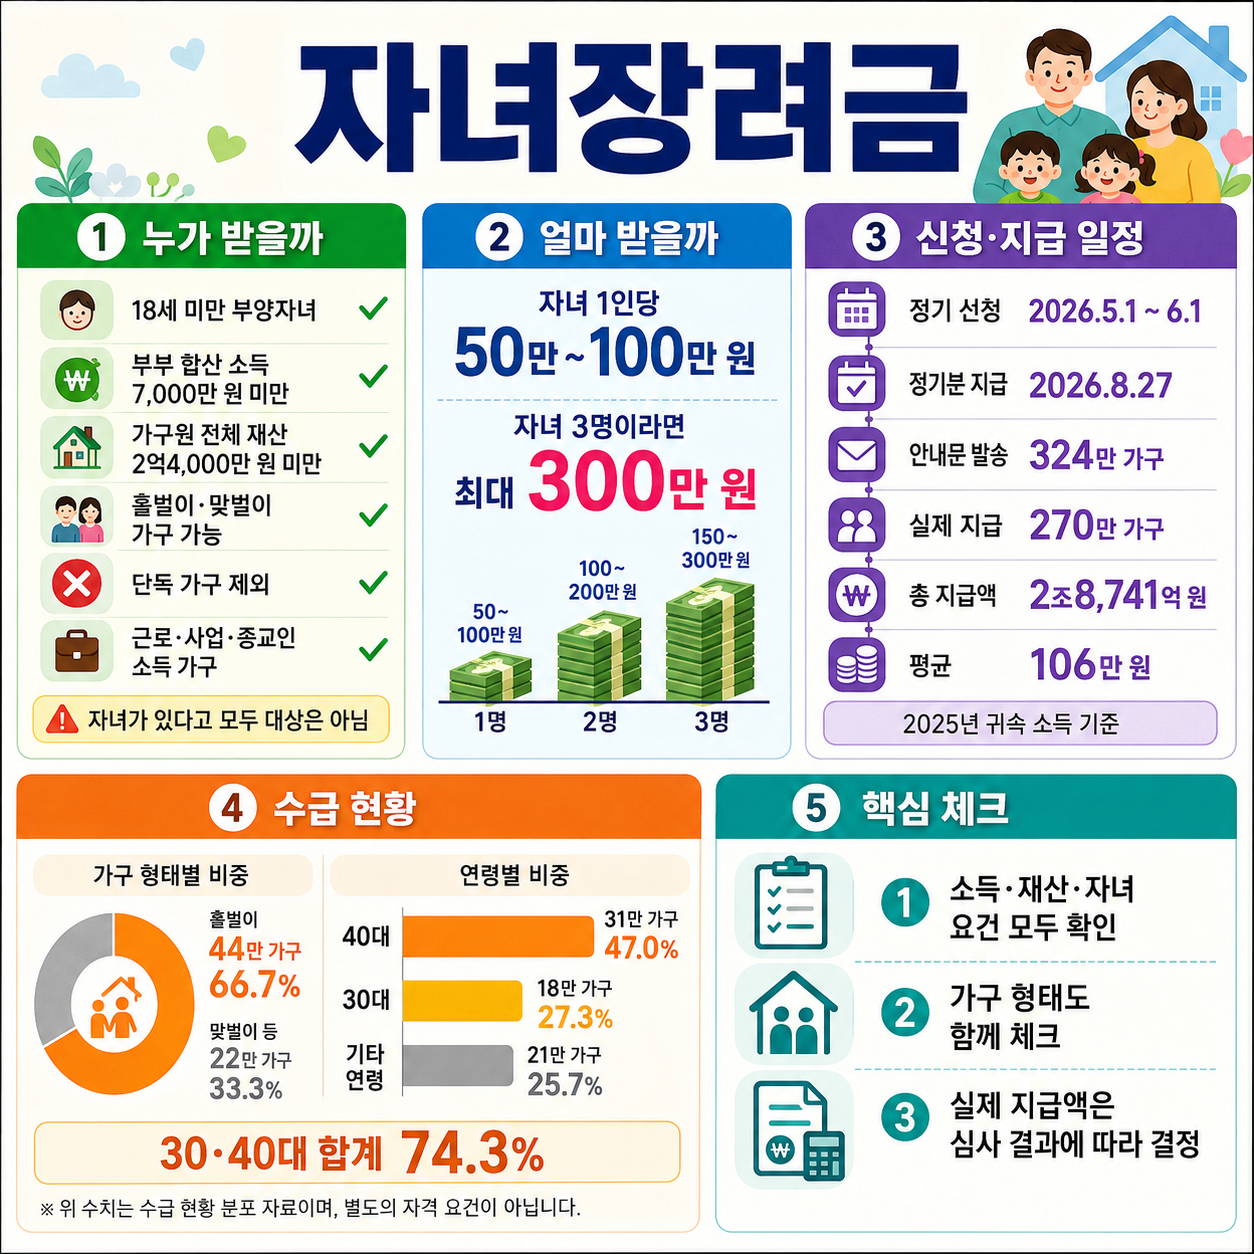
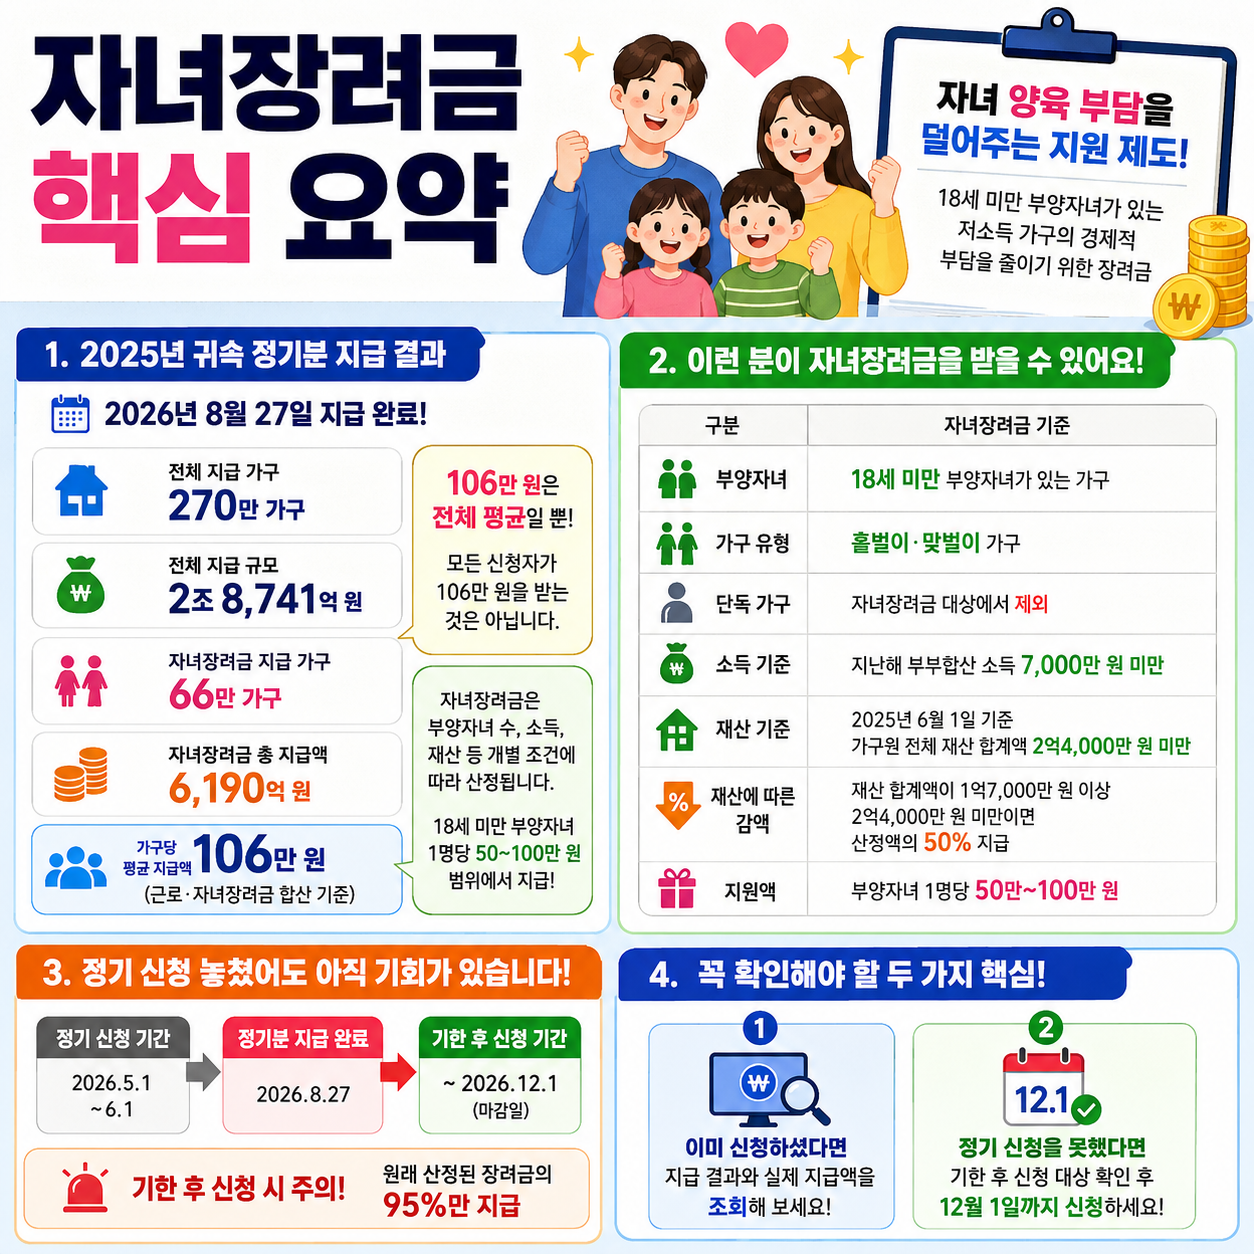
post: auto-generated for tax-yearend

diff --git a/sites/tax-yearend/content/posts/2026-08-29-자녀장려금-신청-조건과-혜택-총정리.md b/sites/tax-yearend/content/posts/2026-08-29-자녀장려금-신청-조건과-혜택-총정리.md
@@ -1,0 +1,270 @@
+---
+title: "자녀장려금 신청 조건과 혜택 총정리"
+date: 2026-08-29
+description: "자녀장려금이란? 자녀 양육 부담을 덜어주는 지원 제도입니다 자녀장려금은 18세 미만 부양자녀가 있는 저소득 가구의 자녀 양육 부담을 덜기 위해 지급하는 장려금 입니다. 근로장려금이 일하는 저소득 가구의 실질소득을 지원하는 데 초점이 있다면, 자녀장려금은 자녀를 부양하는 가구의 경제적 부담을 줄이는 데 목적이 있습니다. 2"
+categories: ["지원금·혜택"]
+tags: ["자녀장려금", "지원금·혜택"]
+author: "오늘의 트렌드"
+image: "/images/자녀장려금-신청-조건과-혜택-총정리.png"
+---
+
+## 자녀장려금이란? 자녀 양육 부담을 덜어주는 지원 제도입니다
+
+자녀장려금은 **18세 미만 부양자녀가 있는 저소득 가구의 자녀 양육 부담을 덜기 위해 지급하는 장려금**입니다. 근로장려금이 일하는 저소득 가구의 실질소득을 지원하는 데 초점이 있다면, 자녀장려금은 자녀를 부양하는 가구의 경제적 부담을 줄이는 데 목적이 있습니다.
+
+2025년 귀속 정기분 근로·자녀장려금은 2026년 8월 27일 지급됐습니다. 이번 정기분 전체 지급 규모는 **270만 가구, 총 2조8,741억 원**이며, 이 가운데 자녀장려금은 **66만 가구에 총 6,190억 원**이 지급됐습니다. 근로·자녀장려금을 합한 가구당 평균 지급액은 106만 원으로 집계됐습니다.
+
+다만 여기서 꼭 구분하셔야 할 점이 있습니다. **106만 원은 근로·자녀장려금 전체 지급 가구의 평균액**이지, 모든 자녀장려금 신청자가 106만 원을 받는다는 뜻은 아닙니다. 자녀장려금은 부양자녀 수와 소득, 재산 등 개별 조건에 따라 산정되며, 참고 자료에 따르면 **18세 미만 부양자녀 1명당 50만~100만 원** 범위에서 지급됩니다.
+
+또한 2026년 8월 29일 현재 정기 신청과 정기분 지급은 이미 마무리된 상태입니다. 하지만 정기 신청을 놓쳤다고 해서 바로 포기하실 필요는 없습니다. 참고 자료에 따르면 **2026년 12월 1일까지 기한 후 신청**이 가능합니다. 다만 기한 후 신청을 하면 원래 산정된 장려금의 **95%만 지급**된다는 점을 꼭 확인하셔야 합니다.
+
+즉, 지금 확인해야 할 핵심은 두 가지입니다. 이미 신청하셨다면 **지급 결과와 실제 지급액을 조회**해 보시고, 정기 신청을 하지 못하셨다면 **기한 후 신청 대상인지 확인한 뒤 12월 1일까지 신청**하는 것입니다.
+
+## 이런 분이 자녀장려금을 받을 수 있어요
+
+자녀장려금은 단순히 자녀가 있다고 모두 받을 수 있는 지원금은 아닙니다. **부양자녀, 부부합산 소득, 가구의 재산** 등의 요건을 함께 살펴봐야 합니다.
+
+제공된 참고 자료에서 확인할 수 있는 2025년 귀속 자녀장려금의 주요 조건을 정리하면 다음과 같습니다.
+
+| 구분           | 자녀장려금 기준                                              |
+| ------------ | ----------------------------------------------------- |
+| 부양자녀         | **18세 미만 부양자녀**가 있는 가구                                |
+| 가구 유형        | **홑벌이·맞벌이 가구**                                        |
+| 단독 가구        | 자녀장려금 대상에서 제외                                         |
+| 소득 기준        | 지난해 **부부합산 소득 7,000만 원 미만**                           |
+| 재산 기준        | **2025년 6월 1일 기준 가구원 전체 재산 합계액 2억4,000만 원 미만**        |
+| 재산에 따른 감액    | 재산 합계액이 **1억7,000만 원 이상 2억4,000만 원 미만이면 산정액의 50% 지급** |
+| 지원액          | 부양자녀 **1명당 50만~100만 원**                               |
+| 정기 신청을 놓친 경우 | **2026년 12월 1일까지 기한 후 신청 가능**                         |
+| 기한 후 신청 지급액  | 원래 산정된 장려금의 **95% 지급**                                |
+
+여기서 ‘부부합산 소득’은 말 그대로 부부의 소득을 합쳐 판단하는 기준입니다. 따라서 신청자 한 사람의 소득만 보고 대상 여부를 단정하기보다는 배우자 소득까지 함께 확인해야 합니다.
+
+재산 기준 역시 중요합니다. 참고 자료에 따르면 **2025년 6월 1일 기준 가구원 전체 재산 합계액이 2억4,000만 원 미만**이어야 하며, 1억7,000만 원 이상 2억4,000만 원 미만 구간에 해당하면 산정된 금액의 50%가 지급됩니다.
+
+### 간단하게 체크해 보세요
+
+다음과 같은 가구라면 자녀장려금 대상 여부를 확인해 보실 필요가 있습니다.
+
+* 18세 미만 부양자녀가 있는 홑벌이 또는 맞벌이 가구
+* 지난해 부부합산 소득이 7,000만 원 미만인 가구
+* 2025년 6월 1일 기준 가구원 전체 재산 합계액이 2억4,000만 원 미만인 가구
+* 정기 신청을 놓쳤지만 아직 기한 후 신청을 하지 않은 가구
+
+다만 위 조건만으로 실제 지급액까지 확정되는 것은 아닙니다. 실제 지급 여부와 금액은 소득·재산·가구 구성 등 관련 요건을 반영해 심사를 거쳐 결정됩니다.
+
+## 자녀장려금 지원 금액은 얼마인가요?
+
+자녀장려금에서 가장 궁금한 부분은 역시 **“그래서 실제로 얼마를 받을 수 있나요?”**일 텐데요.
+
+참고 자료에서 확인되는 지급 범위는 **18세 미만 부양자녀 1명당 최소 50만 원에서 최대 100만 원**입니다.
+
+| 항목                             |       확인된 금액·기준 |
+| ------------------------------ | --------------: |
+| 부양자녀 1명당 자녀장려금                 |  **50만~100만 원** |
+| 부양자녀 3명일 때 가능한 최대액             |      **300만 원** |
+| 재산 1억7,000만 원 이상~2억4,000만 원 미만 | **산정액의 50% 지급** |
+| 기한 후 신청                        | **산정액의 95% 지급** |
+| 2025년 귀속 정기분 자녀장려금 지급 규모       |      **66만 가구** |
+| 정기분 자녀장려금 총 지급액                |    **6,190억 원** |
+
+예를 들어 부양자녀가 3명인 경우 자녀장려금만으로 **최대 300만 원**까지 가능하다고 참고 자료에 명시돼 있습니다.
+
+하지만 자녀가 1명이라고 무조건 100만 원, 3명이라고 무조건 300만 원을 받는 것은 아닙니다. **소득과 재산 등의 조건에 따라 실제 산정액이 달라질 수 있기 때문**입니다.
+
+특히 재산 합계액이 **1억7,000만 원 이상 2억4,000만 원 미만**이라면 산정액의 50%가 지급된다는 점을 주의하셔야 합니다.
+
+또 정기 신청 기간을 놓쳐 기한 후 신청을 하면 **원래 산정된 장려금의 95%만 지급**됩니다. 따라서 같은 조건이라도 신청 시점에 따라 실제 지급액이 달라질 수 있습니다.
+
+## 2026년 자녀장려금 지급 현황도 확인해 보세요
+
+2025년 귀속 정기분 근로·자녀장려금은 **2026년 8월 27일** 지급됐습니다.
+
+참고 자료에 따르면 올해 5월 신청 가구 가운데 요건을 충족한 **270만 가구에 총 2조8,741억 원**이 지급됐고, 이 가운데 자녀장려금은 **66만 가구, 6,190억 원** 규모입니다.
+
+자녀장려금 수급 가구의 특성을 보면 **외벌이 가구가 44만 가구로 66.7%**를 차지했습니다. 연령별로는 40대가 31만 가구(47.0%), 30대가 18만 가구(27.3%)로, 두 연령대를 합하면 전체 자녀장려금 수급 가구의 74.3%였습니다.
+
+이는 어디까지나 이번 정기분 지급 결과에 대한 통계입니다. 특정 연령대에 속한다고 해서 자동으로 자녀장려금 대상이 되는 것은 아니므로, 본인의 소득·재산·가구 요건을 기준으로 확인하셔야 합니다.
+
+## 자녀장려금 온라인 신청 방법, 5단계로 확인하세요
+
+2026년 8월 29일 현재 정기 신청은 종료됐지만, 정기 신청을 놓친 경우 **2026년 12월 1일까지 기한 후 신청**할 수 있습니다.
+
+참고 자료에서 확인되는 온라인 신청 수단은 **국세청 홈택스 또는 손택스 앱**입니다. 모바일 안내문 링크나 QR코드를 통한 신청도 가능합니다.
+
+### 1단계. 홈택스 또는 손택스에 접속하세요
+
+먼저 **국세청 홈택스 PC 또는 모바일 서비스**에 접속합니다. 스마트폰에서는 손택스 앱을 이용할 수 있습니다.
+
+신청 안내문을 받은 경우라면 모바일 안내문 링크 또는 QR코드를 활용하는 방법도 참고할 수 있습니다.
+
+### 2단계. 본인의 장려금 대상 여부를 확인하세요
+
+신청에 앞서 본인의 소득과 재산, 부양자녀 등 자녀장려금 요건을 확인해 주세요.
+
+특히 자녀장려금은 **18세 미만 부양자녀**, **부부합산 소득 7,000만 원 미만**, **2025년 6월 1일 기준 가구원 재산 합계액 2억4,000만 원 미만** 등의 조건을 살펴봐야 합니다.
+
+### 3단계. 장려금 신청 메뉴에서 신청을 진행하세요
+
+홈택스 또는 손택스에서 장려금 신청을 진행합니다.
+
+현재는 정기 신청 기간이 종료된 상태이므로, 정기 신청을 놓친 분이라면 **기한 후 신청 가능 여부를 확인해 신청**하셔야 합니다.
+
+세부 메뉴 명칭이나 화면 구성은 실제 서비스에서 확인해 주세요.
+
+### 4단계. 신청 내용을 확인하고 제출하세요
+
+신청 과정에서 본인의 신청 내용이 정확한지 확인한 뒤 제출합니다.
+
+특히 부양자녀, 배우자 소득 등은 지급 대상과 지급액 판단에 영향을 줄 수 있는 요소이므로 신청 내용을 꼼꼼하게 확인하는 것이 좋습니다.
+
+참고 자료에 없는 세부 입력 항목이나 인증 절차는 임의로 안내하지 않으며, 실제 신청 화면의 공식 안내를 따라주시기 바랍니다.
+
+### 5단계. 신청 후 지급 결과와 금액을 조회하세요
+
+신청했다고 해서 예상한 최대 금액이 그대로 확정되는 것은 아닙니다.
+
+실제 지급 여부와 금액은 관련 요건을 반영해 결정되므로, 신청 이후에는 **홈택스 PC·모바일에서 지급 결과와 금액을 조회**해 보세요.
+
+장려금 상담센터 또는 ARS를 통해서도 대상 여부와 지급 결과를 확인할 수 있습니다.
+
+
+<figure class="post-mid-image">
+  <img src="/images/자녀장려금-신청-조건과-혜택-총정리-mid.png" alt="자녀장려금 신청 조건과 혜택 총정리 인포그래픽" loading="lazy">
+</figure>
+
+## 온라인 신청이 어렵다면? 다른 신청 방법도 있습니다
+
+온라인 이용이 어렵다고 해서 홈택스만 고집하실 필요는 없습니다.
+
+참고 자료에 따르면 장려금은 다음과 같은 방식으로도 신청할 수 있습니다.
+
+| 방법      | 참고 자료에서 확인된 내용               |
+| ------- | ---------------------------- |
+| 홈택스     | PC에서 조회·신청 가능                |
+| 손택스     | 모바일 앱을 통한 신청 가능              |
+| 모바일 안내문 | 안내문 링크를 통한 신청 가능             |
+| QR코드    | QR코드를 통한 신청 가능               |
+| ARS     | **1544-9944**를 통해 기한 후 신청 가능 |
+
+별도의 방문 신청 장소나 방문 접수 절차는 제공된 참고 자료에서 구체적으로 확인되지 않습니다. **방문 신청이 필요한 경우 방문 전 공식 안내를 확인**하시기 바랍니다.
+
+지급 방식과 관련해서는 계좌 입금을 선택한 신청자는 등록한 계좌로 지급받으며, 현금 수령을 신청한 경우 **국세환급금 통지서와 신분증을 지참해 우체국에서 수령**할 수 있다고 안내돼 있습니다.
+
+## 2026년 자녀장려금 신청 기간 및 일정을 월별로 정리하면
+
+현재 시점에서 이미 지나간 일정과 앞으로 남은 일정을 구분해서 보시면 이해하기 쉽습니다.
+
+| 시기                  | 주요 일정                       |
+| ------------------- | --------------------------- |
+| 2026년 5월 1일         | 2025년 귀속 근로·자녀장려금 정기 신청 시작  |
+| 2026년 6월 1일         | 정기 신청 마감                    |
+| 2026년 6월 2일         | 기한 후 신청 시작                  |
+| 2026년 8월 27일        | 2025년 귀속 정기분 근로·자녀장려금 지급    |
+| **2026년 8월 29일 현재** | 정기분 지급 완료, 미신청자는 기한 후 신청 가능 |
+| **2026년 12월 1일**    | 기한 후 신청 마감                  |
+
+정기 신청 기간은 **5월 1일부터 6월 1일까지**였습니다. 이 기간에 정상적으로 신청했다면 산정액 전액을 받을 수 있지만, **6월 2일부터 12월 1일까지 기한 후 신청한 경우 산정액의 95%만 지급**됩니다.
+
+따라서 2026년 8월 29일 현재 아직 신청하지 않은 대상 가구라면 가장 중요한 날짜는 **12월 1일**입니다.
+
+## 자동 신청 제도도 알아두시면 편리합니다
+
+2026년 정기 신청부터는 **자동 신청 동의 제도가 전 연령으로 확대**됐다는 내용도 참고 자료에서 확인됩니다.
+
+기존에는 60세 이상을 대상으로 운영됐지만 이번 정기 신청부터 전 연령으로 확대됐으며, 안내 대상 324만 가구 가운데 **155만 가구가 자동 신청에 동의**했습니다.
+
+참고 자료에 따르면 이번에 자동 신청에 동의한 경우 **2027년 귀속 정기분인 2028년 5월분까지 별도로 신청할 필요가 없습니다.**
+
+매년 신청 시기를 놓칠까 걱정되는 분이라면 자동 신청 관련 안내를 확인해 두는 것도 도움이 될 수 있습니다.
+
+## 놓치기 쉬운 주의사항과 꿀팁
+
+자녀장려금은 신청 기간만 알고 있다고 끝나는 제도가 아닙니다. 소득·재산·부양자녀 기준부터 감액 조건까지 함께 확인하셔야 예상과 실제 지급액의 차이를 줄일 수 있습니다.
+
+**첫째, 정기 신청을 놓쳤다면 12월 1일까지 확인하세요.**
+2026년 8월 29일 현재 정기 신청 기간은 끝났지만 기한 후 신청은 가능합니다. 참고 자료에 따르면 마감일은 **2026년 12월 1일**입니다.
+
+**둘째, 기한 후 신청은 5%가 줄어듭니다.**
+기한 후 신청자는 원래 산정된 장려금의 **95%**를 받습니다. 정기 신청자와 동일한 금액이 지급되는 것이 아니라는 점을 알고 신청하시는 것이 좋습니다.
+
+**셋째, 자녀 수만 보고 예상액을 확정하면 안 됩니다.**
+자녀장려금은 부양자녀 1명당 50만~100만 원이지만, 실제 지급액은 소득·재산 등의 조건에 따라 달라집니다. 최대액만 보고 받을 금액을 미리 확정해서는 안 됩니다.
+
+**넷째, 재산 1억7,000만 원 구간을 꼭 확인하세요.**
+재산 기준 자체는 가구원 전체 합계액 **2억4,000만 원 미만**이지만, 1억7,000만 원 이상 2억4,000만 원 미만이면 산정액의 **50%가 지급**됩니다. 대상 여부와 실제 지급액을 함께 확인해야 하는 이유입니다.
+
+**다섯째, 배우자 소득도 함께 확인하세요.**
+자녀장려금의 소득 기준은 **부부합산 소득 7,000만 원 미만**입니다. 신청자 개인의 소득만으로 판단하면 실제 결과와 달라질 수 있습니다.
+
+**여섯째, 단독 가구는 자녀장려금 대상에서 제외됩니다.**
+제공된 참고 자료에서는 자녀장려금을 18세 미만 부양자녀가 있는 홑벌이·맞벌이 가구를 대상으로 안내하고 있으며, 단독 가구는 대상에서 제외된다고 명시하고 있습니다.
+
+**일곱째, 지급액은 홈택스에서 직접 조회하는 것이 정확합니다.**
+기사에 소개된 최대 금액이나 평균 지급액보다 중요한 것은 본인의 실제 심사 결과입니다. 홈택스 PC·모바일에서 금액과 지급 결과를 확인할 수 있습니다.
+
+**여덟째, 이미 정기 신청했다면 먼저 지급 결과를 확인하세요.**
+2025년 귀속 정기분은 **2026년 8월 27일 지급**됐습니다. 정기 신청을 마친 분이라면 다시 기한 후 신청을 알아보기보다 먼저 본인의 지급 결과를 확인하는 것이 좋습니다.
+
+## 한눈에 보는 자녀장려금 핵심 정리
+
+| 궁금한 내용               | 핵심 답변                                    |
+| -------------------- | ---------------------------------------- |
+| 어떤 제도인가요?            | 18세 미만 부양자녀가 있는 저소득 가구의 양육 부담을 덜기 위한 장려금 |
+| 누가 받을 수 있나요?         | 소득·재산 등 요건을 충족하는 홑벌이·맞벌이 가구              |
+| 소득 기준은?              | 부부합산 소득 **7,000만 원 미만**                  |
+| 재산 기준은?              | 2025년 6월 1일 기준 가구원 전체 **2억4,000만 원 미만**  |
+| 얼마 받을 수 있나요?         | 부양자녀 1명당 **50만~100만 원**                  |
+| 재산이 1억7,000만 원 이상이면? | 2억4,000만 원 미만 범위에서 **산정액의 50% 지급**       |
+| 정기 신청 기간은?           | **2026년 5월 1일~6월 1일**                    |
+| 정기분 지급일은?            | **2026년 8월 27일**                         |
+| 지금도 신청 가능한가요?        | 미신청자는 **2026년 12월 1일까지 기한 후 신청 가능**      |
+| 기한 후 신청하면?           | 산정액의 **95% 지급**                          |
+| 어디에서 신청하나요?          | 홈택스·손택스·ARS 등                            |
+| 어디에서 지급 결과를 확인하나요?   | 홈택스 PC·모바일, 장려금 상담센터, ARS 등              |
+
+## 자주 묻는 질문(FAQ)
+
+**Q: 자녀가 있으면 누구나 자녀장려금을 받을 수 있나요?**
+
+A: 아닙니다. 참고 자료에 따르면 **18세 미만 부양자녀가 있는 가구** 가운데 부부합산 소득과 재산 등의 요건을 충족해야 합니다. 부부합산 소득은 7,000만 원 미만, 2025년 6월 1일 기준 가구원 전체 재산 합계액은 2억4,000만 원 미만이어야 합니다. 단독 가구는 자녀장려금 대상에서 제외됩니다.
+
+**Q: 자녀 1명당 얼마를 받을 수 있나요?**
+
+A: 참고 자료에서 확인되는 자녀장려금은 **18세 미만 부양자녀 1명당 50만~100만 원**입니다. 실제 지급액은 소득과 재산 등 개별 조건에 따라 달라질 수 있습니다. 따라서 1명당 무조건 100만 원이 지급되는 것은 아닙니다.
+
+**Q: 2026년 5월에 신청하지 못했는데 지금 신청할 수 있나요?**
+
+A: 네. 2026년 정기 신청은 5월 1일부터 6월 1일까지였지만, 정기 신청을 놓친 가구는 **2026년 12월 1일까지 기한 후 신청**할 수 있습니다. 다만 기한 후 신청분은 원래 산정된 장려금의 **95%만 지급**됩니다.
+
+**Q: 자녀장려금 지급 결과와 실제 금액은 어디에서 확인하나요?**
+
+A: 참고 자료에 따르면 **국세청 홈택스 PC·모바일에서 금액과 지급 결과를 확인**할 수 있습니다. 장려금 상담센터나 ARS를 통해서도 대상 여부와 지급 결과를 확인할 수 있습니다. 실제 지급액은 개별 조건을 반영해 산정되므로 본인의 조회 결과를 확인하시는 것이 중요합니다.
+
+**Q: 2025년 귀속 자녀장려금은 언제 지급됐나요?**
+
+A: 2025년 귀속 정기분 근로·자녀장려금은 **2026년 8월 27일 지급**됐습니다. 이번 정기분 가운데 자녀장려금은 66만 가구에 총 6,190억 원이 지급됐습니다. 정기 신청을 완료했지만 지급 여부가 궁금하다면 홈택스 등을 통해 본인의 지급 결과를 확인해 보시기 바랍니다.
+
+## 마무리
+
+2026년 자녀장려금의 핵심은 **“18세 미만 부양자녀, 부부합산 소득 7,000만 원 미만, 재산 2억4,000만 원 미만”**으로 정리할 수 있습니다. 여기에 실제 지급액을 결정할 때는 소득과 재산 등의 조건이 함께 반영됩니다.
+
+지원 금액은 **부양자녀 1명당 50만~100만 원**이며, 부양자녀가 3명이라면 최대 300만 원까지 가능합니다. 다만 재산 합계액이 1억7,000만 원 이상 2억4,000만 원 미만이면 산정액의 50%가 지급되므로 단순히 자녀 수에 최대액을 곱해 실제 수령액을 예상해서는 안 됩니다.
+
+무엇보다 현재 시점인 **2026년 8월 29일에는 정기 신청과 8월 27일 정기분 지급이 이미 마무리**됐다는 점을 기억해 주세요. 이미 신청하신 분은 지급 결과를 확인하고, 정기 신청을 놓치신 분은 **12월 1일까지 기한 후 신청**할 수 있습니다. 기한 후 신청은 산정액의 95%가 지급되므로 대상 가능성이 있다면 남은 신청 일정을 놓치지 않는 것이 중요합니다.
+
+세부적인 실제 지급액과 대상 여부는 개인별 소득·재산·가구 상황에 따라 달라질 수 있으므로, 신청 및 조회 과정에서는 홈택스 등 공식 안내에서 본인의 결과를 최종 확인하시기 바랍니다.
+
+## 출처
+
+* [bnt뉴스 - 근로장려금 지급일…신청 놓쳤다면](https://www.bntnews.co.kr/article/view/bnt202608290012?utm_source=chatgpt.com)
+* [위키트리 - 2026 근로·자녀장려금 5월 신청·6월 지급 한눈에](https://www.wikitree.co.kr/articles/1134455?utm_source=chatgpt.com)
+* [국제뉴스 - 근로·자녀장려금 오늘 지급 시간… 나는 얼마 받을까?](https://www.gukjenews.com/news/articleView.html?idxno=3675675&utm_source=chatgpt.com)
+* [한국일보 - 지난해 귀속 근로·자녀장려금 2.8조 원 한 달 먼저 지급](https://www.hankookilbo.com/news/article/A2026082709520000383?utm_source=chatgpt.com)
+
+---
+
+<figure class="post-comic">
+  <figcaption>오늘의 시사 4컷</figcaption>
+  <img src="/images/자녀장려금-신청-조건과-혜택-총정리-comic.png" alt="자녀장려금 신청 조건과 혜택 총정리 4컷만화" loading="lazy">
+</figure>
